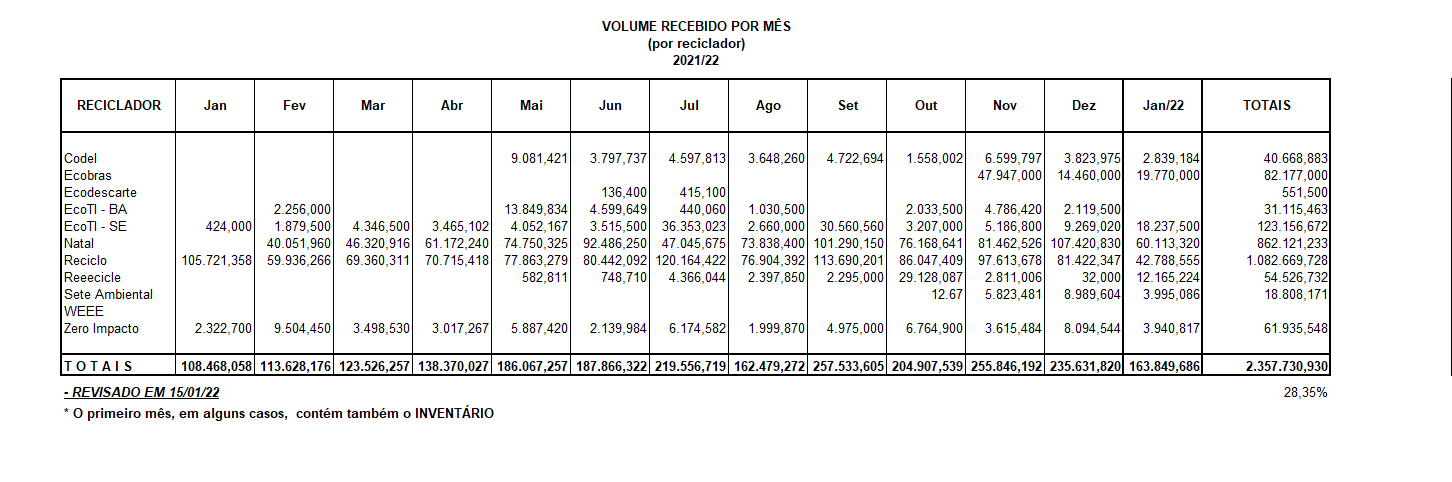
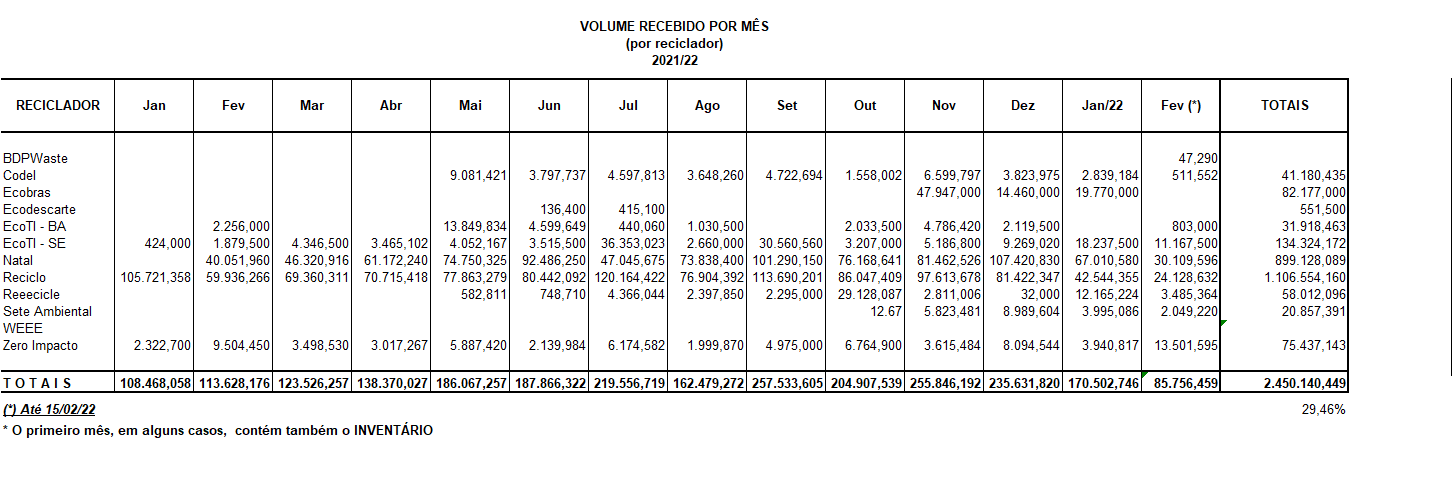
Atualização Quinzenal Fev/22

diff --git a/frontend/src/components/DataTable/index.tsx b/frontend/src/components/DataTable/index.tsx
@@ -14,12 +14,20 @@ const DataTable = () => {
                         
                     </tr>
                     <tr>
+                        <td>BDPWaste</td>
+                        <td>0</td>
+                        <td>1</td>
+                        <td>0</td>
+                        <td>47,260</td>
+                        <td>0</td>
+                    </tr>
+                    <tr>
                         <td>Codel</td>
                         <td>29</td>
                         <td>126</td>
                         <td>311</td>
-                        <td>11.240,666</td>
-                        <td>29.564,555</td>
+                        <td>11.139,673</td>
+                        <td>30.190,483</td>
                     </tr>
                     <tr>
                         <td>Ecobras</td>
@@ -40,50 +48,50 @@ const DataTable = () => {
                     <tr>
                         <td>EcoTI - BA</td>
                         <td>24</td>
-                        <td>32</td>
-                        <td>19</td>
-                        <td>17.108,292</td>
+                        <td>35</td>
+                        <td>25</td>
+                        <td>16.486,199</td>
                         <td>3.793,750</td>
                     </tr>
                     <tr>
                         <td>EcoTI - SE</td>
-                        <td>13</td>
-                        <td>135</td>
-                        <td>48</td>
-                        <td>37.597,593</td>
+                        <td>14</td>
+                        <td>140</td>
+                        <td>52</td>
+                        <td>37.629,423</td>
                         <td>25.500,530</td>
                     </tr>
                     <tr>
                         <td>Natal</td>
-                        <td>151</td>
-                        <td>1.316</td>
-                        <td>229</td>
-                        <td>90.871,135</td>
-                        <td>769.488,606</td>
+                        <td>166</td>
+                        <td>1.386</td>
+                        <td>236</td>
+                        <td>96.003,161</td>
+                        <td>801.816,896</td>
                     </tr>
                     <tr>
                         <td>Reciclo</td>
-                        <td>357</td>
-                        <td>1.090</td>
-                        <td>691</td>
-                        <td>79.419,827</td>
-                        <td>1.128.987,107</td>
+                        <td>391</td>
+                        <td>1.126</td>
+                        <td>723</td>
+                        <td>86.204,953</td>
+                        <td>1.157.241,875</td>
                     </tr>
                     <tr>
                         <td>Reeecicle</td>
                         <td>49</td>
-                        <td>191</td>
+                        <td>206</td>
                         <td>1</td>
-                        <td>34.194,039</td>
+                        <td>35.630,687</td>
                         <td>184,200</td>
                     </tr>
                     <tr>
                         <td>Sete Ambiental</td>
-                        <td>422</td>
-                        <td>306</td>
-                        <td>4</td>
-                        <td>14.761,181</td>
-                        <td>555,250</td>
+                        <td>491</td>
+                        <td>350</td>
+                        <td>5</td>
+                        <td>16.648,367</td>
+                        <td>609,600</td>
                     </tr>
                     <tr>
                         <td>WEEE</td>
@@ -95,11 +103,11 @@ const DataTable = () => {
                     </tr>
                     <tr>
                         <td>Zero Impacto</td>
-                        <td>72</td>
-                        <td>245</td>
-                        <td>20</td>
-                        <td>37.766,575</td>
-                        <td>17.224,454</td>
+                        <td>73</td>
+                        <td>283</td>
+                        <td>27</td>
+                        <td>31.208,527</td>
+                        <td>17.669,814</td>
                     </tr>
                     <tr>
                         <td> </td>
@@ -111,11 +119,11 @@ const DataTable = () => {
                     </tr>
                     <tr>
                         <th>T O T A I S</th>
-                        <th>1.154</th>
-                        <th>3.455</th>
-                        <th>1.332</th>
-                        <th>400.735,658</th>
-                        <th>1.979.229,152</th>
+                        <th>1.276</th>
+                        <th>3.672</th>
+                        <th>1.408</th>
+                        <th>408.737,340</th>
+                        <th>2.040.997,848</th>
                     </tr>
                 </thead>
                 <tbody>

diff --git a/frontend/src/App.tsx b/frontend/src/App.tsx
@@ -14,6 +14,8 @@ import PlanilhaM from "components/PlanilhaM";
 import BarReciclMensal from "components/BarReciclMensal";
 import PlanilhaRcb from "components/PlanilhaRcb";
 import BarRecbMensal from "components/BarRecbMensal";
+import MetaR from "components/MetaR";
+import MetaV from "components/MetaV";
 
 function App() {
   return (
@@ -34,6 +36,24 @@ function App() {
           </div>
         </div>
 
+        <h3 className="text-center text-primary py-3">Atingimento das Metas 2022</h3>
+
+        <div className="row px-3">
+
+          <div className="col-sm-6">
+            <h4 className="text-center text-secondary">Novos Recicladores na Plataforma</h4>
+            <h5 className="text-center text-secondary">(Meta = 14)</h5>
+            <MetaR />
+          </div>
+          <div className="col-sm-6">
+            <h4 className="text-center text-secondary">Volume de REEE coletado</h4>
+            <h5 className="text-center text-secondary">(Meta = 7.700.000 Kg)</h5>
+            <MetaV />
+          </div>
+        </div>
+
+        <h3 className="text-center text-primary py-3">Volumes Recebidos/Processados</h3>
+        
         <div className="row px-3">
 
           <div className="col-sm-12">
@@ -62,7 +82,7 @@ function App() {
         </div>
         
         <div className="py-3">
-          <h2 className="text-center text-primary">Quantidade de Ordens Abertas</h2>
+          <h3 className="text-center text-primary">Quantidade de Ordens Abertas</h3>
         </div>
 
         <div className="row px-3">
@@ -85,7 +105,7 @@ function App() {
         </div>
 
         <div className="py-3">
-          <h2 className="text-center text-primary">Contribuição da Plataforma para a Natureza</h2>
+          <h3 className="text-center text-primary">Contribuição da Plataforma para a Natureza</h3>
         </div>
 
         <div className="col-sm-12 px-25 py-2">
@@ -109,7 +129,7 @@ function App() {
         </div>
 
         <div className="py-3">
-          <h2 className="text-center text-primary">Volumes de Reciclagem</h2>
+          <h3 className="text-center text-primary">Volumes de Reciclagem</h3>
         </div>
 
         <DataTable />

diff --git a/frontend/src/components/BarChart/index.tsx b/frontend/src/components/BarChart/index.tsx
@@ -12,12 +12,12 @@ const BarChart = () => {
     
     const mockData = {
         labels: {
-            categories: ['Codel', 'Ecobras', 'Ecodescarte', 'EcoTI - BA', 'EcoTI - SE', 'Natal', 'Reciclo', 'Reeecicle', 'Sete Ambiental', 'WEEE', 'Zero Impacto']
+            categories: ['BDPWaste', 'Codel', 'Ecobras', 'Ecodescarte', 'EcoTI - BA', 'EcoTI - SE', 'Natal', 'Reciclo', 'Reeecicle', 'Sete Ambiental', 'WEEE', 'Zero Impacto']
         },
         series: [
             {
                 name: "Ton Reciclados",
-                data: [29.565, 3.991, 0, 3.794, 25.501, 769.489, 1128.987, 0.184, 0.555, 0, 17.224]                  
+                data: [0, 30.190, 3.991, 0, 3.794, 25.501, 801.817, 1157.242, 0.184, 0.610, 0, 17.670]                  
             }
         ]
     };

diff --git a/frontend/src/components/BarRecbMensal/index.tsx b/frontend/src/components/BarRecbMensal/index.tsx
@@ -16,12 +16,12 @@ const BarRecbMensal = () => {
     
     const mockData = {
         labels: {
-            categories: ['Jan', 'Fev', 'Mar', 'Abr', 'Mai', 'Jun', 'Jul', 'Ago', 'Set', 'Out', 'Nov', 'Dez', 'Jan/22']
+            categories: ['Jan', 'Fev', 'Mar', 'Abr', 'Mai', 'Jun', 'Jul', 'Ago', 'Set', 'Out', 'Nov', 'Dez', 'Jan/22', 'Fev']
         },
         series: [
             {
                 name: "Kg Recebidos",
-                data: [108468, 113628,	123526, 138370, 186067, 187866, 219556, 162479, 257534, 204908, 255846, 235632]                  
+                data: [108468, 113628,	123526, 138370, 186067, 187866, 219556, 162479, 257534, 204908, 255846, 235632, 0]                  
             }
         ]
     };

diff --git a/frontend/src/components/BarReciclMensal/index.tsx b/frontend/src/components/BarReciclMensal/index.tsx
@@ -16,12 +16,12 @@ const BarReciclMensal = () => {
     
     const mockData = {
         labels: {
-            categories: ['Jan', 'Fev', 'Mar', 'Abr', 'Mai', 'Jun', 'Jul', 'Ago', 'Set', 'Out', 'Nov', 'Dez', 'Jan/22']
+            categories: ['Jan', 'Fev', 'Mar', 'Abr', 'Mai', 'Jun', 'Jul', 'Ago', 'Set', 'Out', 'Nov', 'Dez', 'Jan/22', 'Fev']
         },
         series: [
             {
                 name: "Kg Reciclados",
-                data: [26339, 90712, 93643, 142116, 166545, 219788, 189244, 197028, 209382, 176002, 176982, 162728]                  
+                data: [26339, 90712, 93643, 142116, 166545, 219788, 189244, 197028, 209382, 176002, 176982, 162728, 0]                  
             }
         ]
     };

diff --git a/frontend/src/components/BarOSs/index.tsx b/frontend/src/components/BarOSs/index.tsx
@@ -17,12 +17,12 @@ const BarOSs = () => {
     
     const mockData = {
         labels: {
-            categories: ['Codel', 'Ecobras', 'Ecodescarte', 'EcoTI - BA', 'EcoTI - SE', 'Natal', 'Reciclo', 'Reeecicle', 'Sete Ambiental', 'WEEE', 'Zero Impacto']
+            categories: ['BDPWaste', 'Codel', 'Ecobras', 'Ecodescarte', 'EcoTI - BA', 'EcoTI - SE', 'Natal', 'Reciclo', 'Reeecicle', 'Sete Ambiental', 'WEEE', 'Zero Impacto']
         },
         series: [
             {
                 name: "OS's Abertas",
-                data: [126, 8, 6, 32, 135, 1316, 1090, 191, 306, 0, 245]                  
+                data: [1, 132, 8, 6, 35, 140, 1386, 1126, 206, 350, 0, 283]                  
             }
         ]
     };

diff --git a/frontend/src/components/BarOTs/index.tsx b/frontend/src/components/BarOTs/index.tsx
@@ -17,12 +17,12 @@ const BarOTs = () => {
     
     const mockData = {
         labels: {
-            categories: ['Codel', 'Ecobras', 'Ecodescarte', 'EcoTI - BA', 'EcoTI - SE', 'Natal', 'Reciclo', 'Reeecicle', 'Sete Ambiental', 'WEEE', 'Zero Impacto']
+            categories: ['BDPWaste', 'Codel', 'Ecobras', 'Ecodescarte', 'EcoTI - BA', 'EcoTI - SE', 'Natal', 'Reciclo', 'Reeecicle', 'Sete Ambiental', 'WEEE', 'Zero Impacto']
         },
         series: [
             {
                 name: "OT's Abertas",
-                data: [29, 0, 37, 24, 13, 151, 357, 49, 422, 0, 72]                  
+                data: [0, 31, 0, 37, 24, 14, 166, 391, 49, 491, 0, 73]                  
             }
         ]
     };

diff --git a/frontend/src/components/BarODs/index.tsx b/frontend/src/components/BarODs/index.tsx
@@ -17,12 +17,12 @@ const BarODs = () => {
     
     const mockData = {
         labels: {
-            categories: ['Codel', 'Ecobras', 'Ecodescarte', 'EcoTI - BA', 'EcoTI - SE', 'Natal', 'Reciclo', 'Reeecicle', 'Sete Ambiental', 'WEEE', 'Zero Impacto']
+            categories: ['BDPWaste', 'Codel', 'Ecobras', 'Ecodescarte', 'EcoTI - BA', 'EcoTI - SE', 'Natal', 'Reciclo', 'Reeecicle', 'Sete Ambiental', 'WEEE', 'Zero Impacto']
         },
         series: [
             {
                 name: "OD's Abertas",
-                data: [311, 9, 0, 19, 48, 229, 691, 1, 4, 0, 20]                  
+                data: [0, 330, 9, 0, 25, 52, 236, 723, 1, 5, 0, 27]                  
             }
         ]
     };

diff --git a/frontend/src/components/DonutChart/index.tsx b/frontend/src/components/DonutChart/index.tsx
@@ -3,8 +3,8 @@ import Chart from 'react-apexcharts';
 const DonutChart = () => {
 
     const mockData = {
-        series: [29.565, 3.991, 0, 3.794, 25.501, 769.489, 1128.987, 0.184, 0.555, 0, 17.224],
-        labels: ['Codel', 'Ecobras', 'Ecodescarte', 'EcoTI - BA', 'EcoTI - SE', 'Natal', 'Reciclo', 'Reeecicle', 'Sete Ambiental', 'WEEE', 'Zero Impacto']
+        series: [0, 29.565, 3.991, 0, 3.794, 25.501, 769.489, 1128.987, 0.184, 0.555, 0, 17.224],
+        labels: ['BDPWaste', 'Codel', 'Ecobras', 'Ecodescarte', 'EcoTI - BA', 'EcoTI - SE', 'Natal', 'Reciclo', 'Reeecicle', 'Sete Ambiental', 'WEEE', 'Zero Impacto']
     }
     
     const options = {

diff --git a/frontend/src/components/MetaR/index.tsx b/frontend/src/components/MetaR/index.tsx
@@ -1,0 +1,13 @@
+import ImgMetaR from 'assets/img/MetaRecicladores.png';
+
+const MetaR = () => {
+    return (
+
+            <div className="container">
+                <img src={ImgMetaR} alt="Planilha" width="500" />
+             </div>
+
+    );
+}
+
+export default MetaR;

diff --git a/frontend/src/components/MetaV/index.tsx b/frontend/src/components/MetaV/index.tsx
@@ -1,0 +1,13 @@
+import ImgMetaV from 'assets/img/MetaVolume.png';
+
+const MetaV = () => {
+    return (
+
+            <div className="container">
+                <img src={ImgMetaV} alt="Planilha" width="500" />
+             </div>
+
+    );
+}
+
+export default MetaV;
